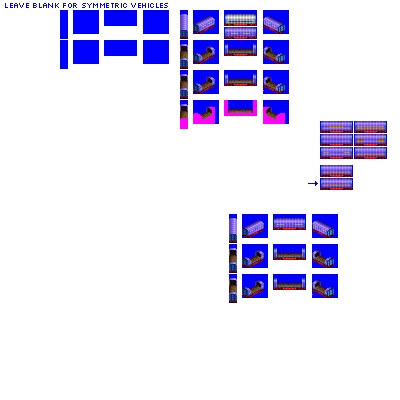
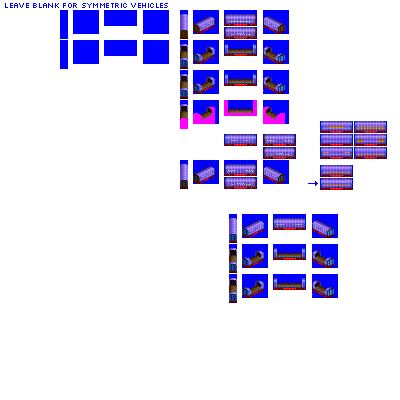
Change: WIP on tarpaulin cars

diff --git a/src/train.py b/src/train.py
@@ -8480,21 +8480,12 @@ class TarpaulinCarConsistBase(BoxCarConsistBase):
             "metal_product_car_mixed_randomised",
             "piece_goods_car_covered_randomised",
             "piece_goods_car_mixed_randomised",
+            "tarpaulin_car_randomised",
         ]
         self._joker = True
         # buyable variant groups are created post-hoc and can group across subclasses
         # any buyable variants (liveries) within the subclass will be automatically added to the group
         self.use_named_buyable_variant_group = "wagon_group_tarpaulin_cars"
-
-
-class TarpaulinCarConsistType1(TarpaulinCarConsistBase):
-    """
-    Tarpaulin car - refits similar to box van for gameplay reasons, unlike IRL (which is flat)
-    """
-
-    def __init__(self, **kwargs):
-        self.base_id = "tarpaulin_car_type_1"
-        super().__init__(**kwargs)
         # Graphics configuration
         weathered_variants = {
             "unweathered": graphics_constants.tarpaulin_car_body_recolour_map
@@ -8517,7 +8508,7 @@ class TarpaulinCarConsistType1(TarpaulinCarConsistBase):
                     "RANDOM_FROM_CONSIST_LIVERIES_BAUXITE_GREY_NIGHTSHADE"
                 ],
                 global_constants.freight_wagon_liveries[
-                    "RANDOM_FROM_CONSIST_LIVERIES_SILVER_PEWTER"
+                    "RANDOM_FROM_CONSIST_LIVERIES_OIL_BLACK_NIGHTSHADE"
                 ],
                 global_constants.freight_wagon_liveries[
                     "RANDOM_FROM_CONSIST_LIVERIES_TEAL_PEWTER"
@@ -8533,6 +8524,7 @@ class TarpaulinCarConsistType1(TarpaulinCarConsistBase):
                 global_constants.freight_wagon_liveries["FREIGHT_RUBY"],
                 global_constants.freight_wagon_liveries["FREIGHT_BAUXITE"],
                 global_constants.freight_wagon_liveries["FREIGHT_GREY"],
+                global_constants.freight_wagon_liveries["FREIGHT_OIL_BLACK"],
                 global_constants.freight_wagon_liveries["FREIGHT_NIGHTSHADE"],
                 global_constants.freight_wagon_liveries["FREIGHT_SILVER"],
                 # teal before pewter to ensure it appears in buy menu order for mixed version
@@ -8540,6 +8532,16 @@ class TarpaulinCarConsistType1(TarpaulinCarConsistBase):
                 global_constants.freight_wagon_liveries["FREIGHT_PEWTER"],
             ],
         )
+
+
+class TarpaulinCarConsistType1(TarpaulinCarConsistBase):
+    """
+    Tarpaulin car - refits similar to box van for gameplay reasons, unlike IRL (which is flat)
+    """
+
+    def __init__(self, **kwargs):
+        self.base_id = "tarpaulin_car_type_1"
+        super().__init__(**kwargs)
 
 
 class TarpaulinCarConsistType2(TarpaulinCarConsistBase):
@@ -8550,7 +8552,18 @@ class TarpaulinCarConsistType2(TarpaulinCarConsistBase):
     def __init__(self, **kwargs):
         self.base_id = "tarpaulin_car_type_2"
         super().__init__(**kwargs)
+
+
+class TarpaulinCarConsistType3(TarpaulinCarConsistBase):
+    """
+    Tarpaulin car - refits similar to box van for gameplay reasons, unlike IRL (which is flat)
+    """
+
+    def __init__(self, **kwargs):
+        self.base_id = "tarpaulin_car_type_3"
+        super().__init__(**kwargs)
         # Graphics configuration
+        # slightly fewer liveries than TarpaulinCarConsistBase
         weathered_variants = {
             "unweathered": graphics_constants.tarpaulin_car_body_recolour_map
         }
@@ -8558,6 +8571,39 @@ class TarpaulinCarConsistType2(TarpaulinCarConsistBase):
             piece="flat",
             has_cover=True,
             weathered_variants=weathered_variants,
+            liveries=[
+                global_constants.freight_wagon_liveries[
+                    "RANDOM_FROM_CONSIST_LIVERIES_COMPLEMENT_COMPANY_COLOUR"
+                ],
+                global_constants.freight_wagon_liveries[
+                    "RANDOM_FROM_CONSIST_LIVERIES_VARIETY"
+                ],
+                global_constants.freight_wagon_liveries[
+                    "COMPANY_COLOUR_USE_WEATHERING"
+                ],
+                global_constants.freight_wagon_liveries[
+                    "COMPLEMENT_COMPANY_COLOUR_USE_WEATHERING"
+                ],
+                global_constants.freight_wagon_liveries["FREIGHT_RUBY"],
+                global_constants.freight_wagon_liveries["FREIGHT_TEAL"],
+            ],
+        )
+
+
+class TarpaulinCarRandomisedConsist(RandomisedConsistMixin, TarpaulinCarConsistBase):
+    """
+    Random choice of tarpaulin car sprite
+    """
+
+    def __init__(self, **kwargs):
+        self.base_id = "tarpaulin_car_randomised"
+        super().__init__(**kwargs)
+        # Graphics configuration
+        # note we copy the liveries from the base class gestalt, but then replace the gestalt in this instance with the randomised gestalt
+        liveries = self.gestalt_graphics.liveries.copy()
+        self.gestalt_graphics = GestaltGraphicsRandomisedWagon(
+            dice_colour=3,
+            #liveries=liveries,
             liveries=[
                 global_constants.freight_wagon_liveries[
                     "RANDOM_FROM_CONSIST_LIVERIES_COMPLEMENT_COMPANY_COLOUR"

diff --git a/src/vehicles/pony/tarpaulin_cars_type_3_pony.py b/src/vehicles/pony/tarpaulin_cars_type_3_pony.py
@@ -1,28 +1,28 @@
-from train import TarpaulinCarConsistType2, FreightCar
+from train import TarpaulinCarConsistType3, FreightCar
 
 
 def main(roster_id, **kwargs):
     # --------------- standard gauge ---------------------------------------------------------------
     # gen 5 start, only B and C lengths
 
-    consist = TarpaulinCarConsistType2(
+    consist = TarpaulinCarConsistType3(
         roster_id=roster_id,
         roster_id_providing_module=kwargs["roster_id_providing_module"],
-        base_numeric_id=24850,
+        base_numeric_id=25750,
         gen=5,
         subtype="B",
         sprites_complete=False,
     )
 
-    consist.add_unit(type=FreightCar, chassis="2_axle_filled_greebled_24px")
+    consist.add_unit(type=FreightCar, chassis="2_axle_1cc_filled_24px")
 
-    consist = TarpaulinCarConsistType2(
+    consist = TarpaulinCarConsistType3(
         roster_id=roster_id,
         roster_id_providing_module=kwargs["roster_id_providing_module"],
-        base_numeric_id=24980,
+        base_numeric_id=27230,
         gen=5,
         subtype="C",
         sprites_complete=False,
     )
 
-    consist.add_unit(type=FreightCar, chassis="4_axle_filled_greebled_32px")
+    consist.add_unit(type=FreightCar, chassis="4_axle_1cc_filled_32px")

diff --git a/src/vehicles/pony/tarpaulin_cars_randomised_pony.py b/src/vehicles/pony/tarpaulin_cars_randomised_pony.py
@@ -1,0 +1,26 @@
+from train import TarpaulinCarRandomisedConsist, FreightCar
+
+
+def main(roster_id, **kwargs):
+    # --------------- standard gauge ---------------------------------------------------------------
+    consist = TarpaulinCarRandomisedConsist(
+        roster_id=roster_id,
+        roster_id_providing_module=kwargs["roster_id_providing_module"],
+        base_numeric_id=24870,
+        gen=5,
+        subtype="B",
+        sprites_complete=True,
+    )
+
+    consist.add_unit(type=FreightCar, chassis="empty_24px")
+
+    consist = TarpaulinCarRandomisedConsist(
+        roster_id=roster_id,
+        roster_id_providing_module=kwargs["roster_id_providing_module"],
+        base_numeric_id=28520,
+        gen=5,
+        subtype="C",
+        sprites_complete=True,
+    )
+
+    consist.add_unit(type=FreightCar, chassis="empty_32px")

diff --git a/src/vehicles/pony/tarpaulin_cars_type_1_pony.py b/src/vehicles/pony/tarpaulin_cars_type_1_pony.py
@@ -11,7 +11,7 @@ def main(roster_id, **kwargs):
         base_numeric_id=25530,
         gen=5,
         subtype="B",
-        sprites_complete=True,
+        sprites_complete=False,
     )
 
     consist.add_unit(type=FreightCar, chassis="2_axle_filled_greebled_24px")
@@ -22,7 +22,7 @@ def main(roster_id, **kwargs):
         base_numeric_id=35610,
         gen=5,
         subtype="C",
-        sprites_complete=True,
+        sprites_complete=False,
     )
 
     consist.add_unit(type=FreightCar, chassis="4_axle_filled_greebled_32px")

diff --git a/src/rosters/pony.py b/src/rosters/pony.py
@@ -354,8 +354,10 @@ wagon_module_names_with_roster_ids = {
     "suburban_passenger_cars": "pony",
     "swing_roof_hopper_cars": "pony",
     "tank_cars": "pony",
+    "tarpaulin_cars_randomised": "pony",
     "tarpaulin_cars_type_1": "pony",
     "tarpaulin_cars_type_2": "pony",
+    "tarpaulin_cars_type_3": "pony",
     "tippler_bulk_open_cars_randomised": "pony",
     "tippler_bulk_open_cars_type_1": "pony",
     "tippler_bulk_open_cars_type_2": "pony",

diff --git a/src/global_constants.py b/src/global_constants.py
@@ -51,6 +51,8 @@ wagon_module_name_stems = [
     "sliding_roof_hi_cube_cars",
     "tarpaulin_cars_type_1",
     "tarpaulin_cars_type_2",
+    "tarpaulin_cars_type_3",
+    "tarpaulin_cars_randomised",
     "piece_goods_cars_covered_randomised",
     "piece_goods_cars_mixed_randomised",
     "manufacturing_parts_piece_goods_cars_randomised",
